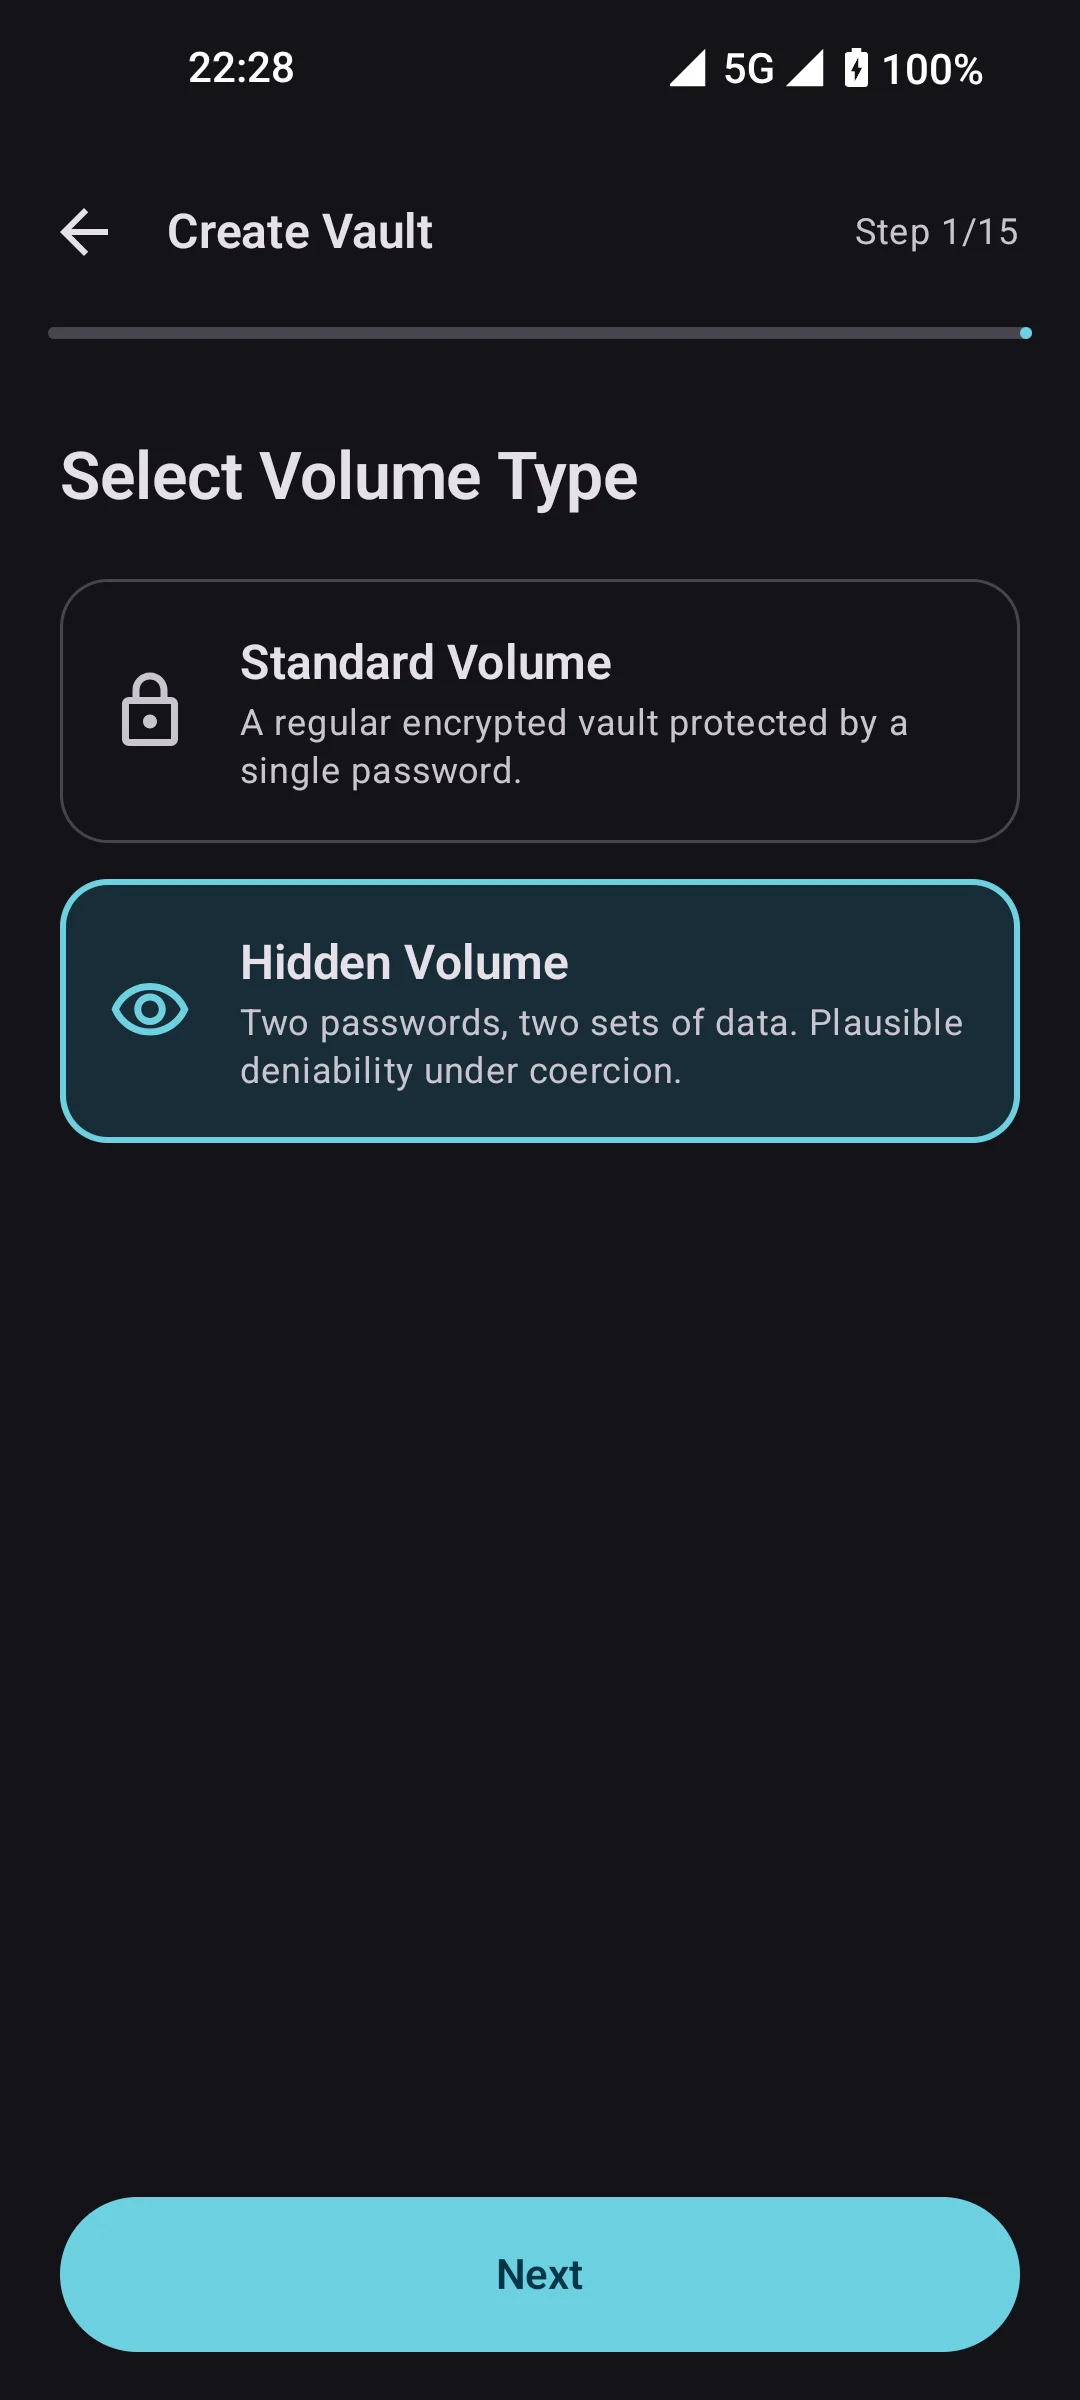
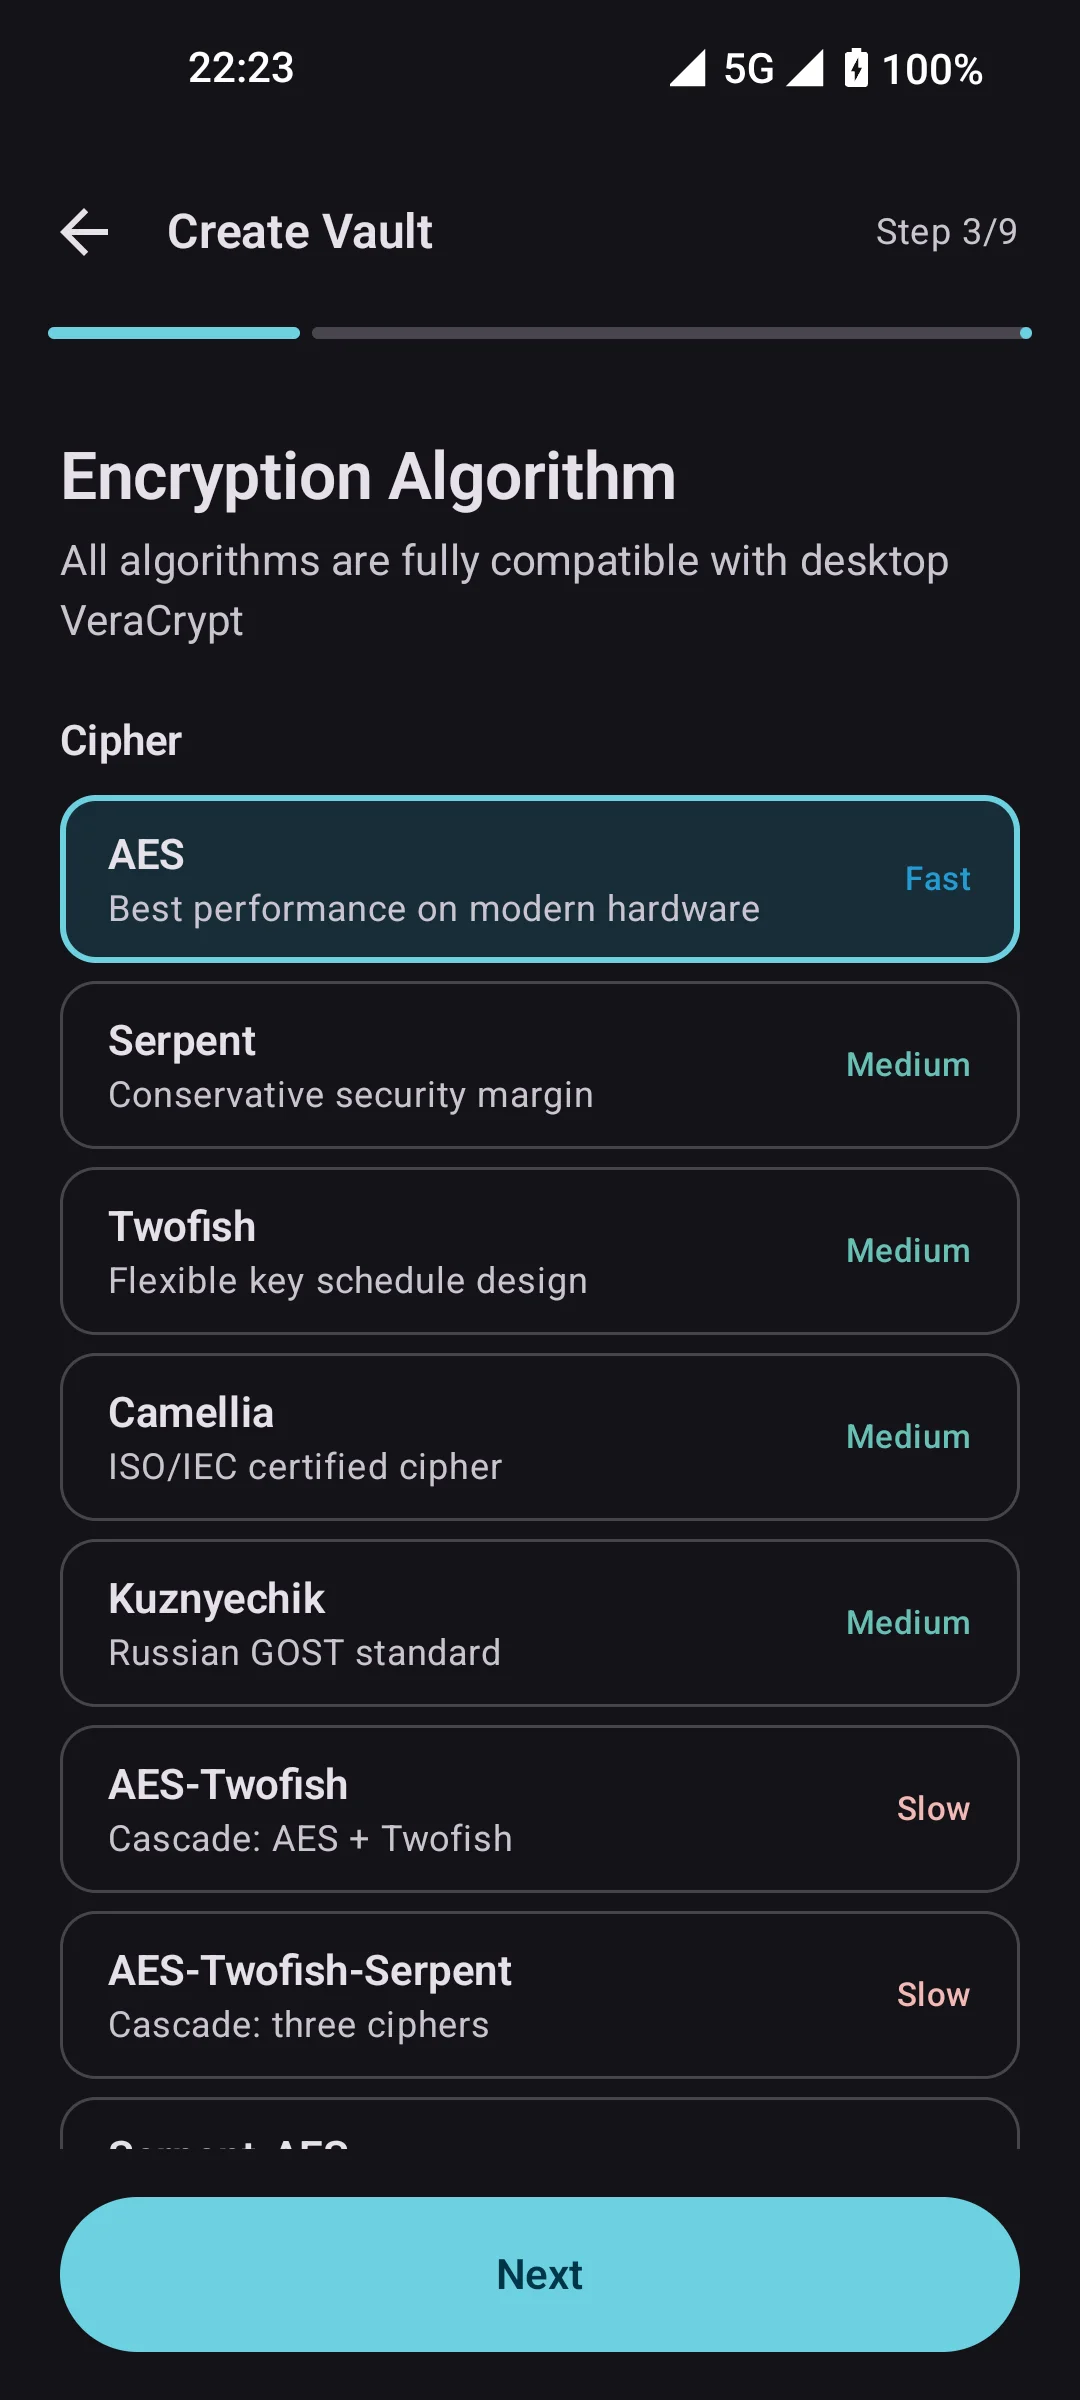
Rename Algorithms→Hidden Volume, add 3 new screenshots
- algorithms.webp renamed to hidden-volume.webp
- New: algorithms.webp (75K), panic-mode.webp (51K), amoled.webp (52K)
- Gallery now shows 9 screens

diff --git a/src/components/ScreenshotGallery.tsx b/src/components/ScreenshotGallery.tsx
@@ -1,12 +1,15 @@
 import { motion } from 'framer-motion';
 
 const screens = [
-  { label: 'Vault',         src: '/screenshots/vault.webp' },
-  { label: 'Calculator',    src: '/screenshots/calculator.webp' },
-  { label: 'Gallery',       src: '/screenshots/gallery.webp' },
-  { label: 'File Manager',  src: '/screenshots/file-manager.webp' },
-  { label: 'Audio Player',  src: '/screenshots/audio-player.webp' },
-  { label: 'Algorithms',    src: '/screenshots/algorithms.webp' },
+  { label: 'Vault',          src: '/screenshots/vault.webp' },
+  { label: 'Calculator',     src: '/screenshots/calculator.webp' },
+  { label: 'Gallery',        src: '/screenshots/gallery.webp' },
+  { label: 'File Manager',   src: '/screenshots/file-manager.webp' },
+  { label: 'Audio Player',   src: '/screenshots/audio-player.webp' },
+  { label: 'Hidden Volume',  src: '/screenshots/hidden-volume.webp' },
+  { label: 'Algorithms',     src: '/screenshots/algorithms.webp' },
+  { label: 'Panic Mode',     src: '/screenshots/panic-mode.webp' },
+  { label: 'AMOLED',         src: '/screenshots/amoled.webp' },
 ];
 
 function PhoneFrame({ screen, index }: { screen: typeof screens[0]; index: number }) {